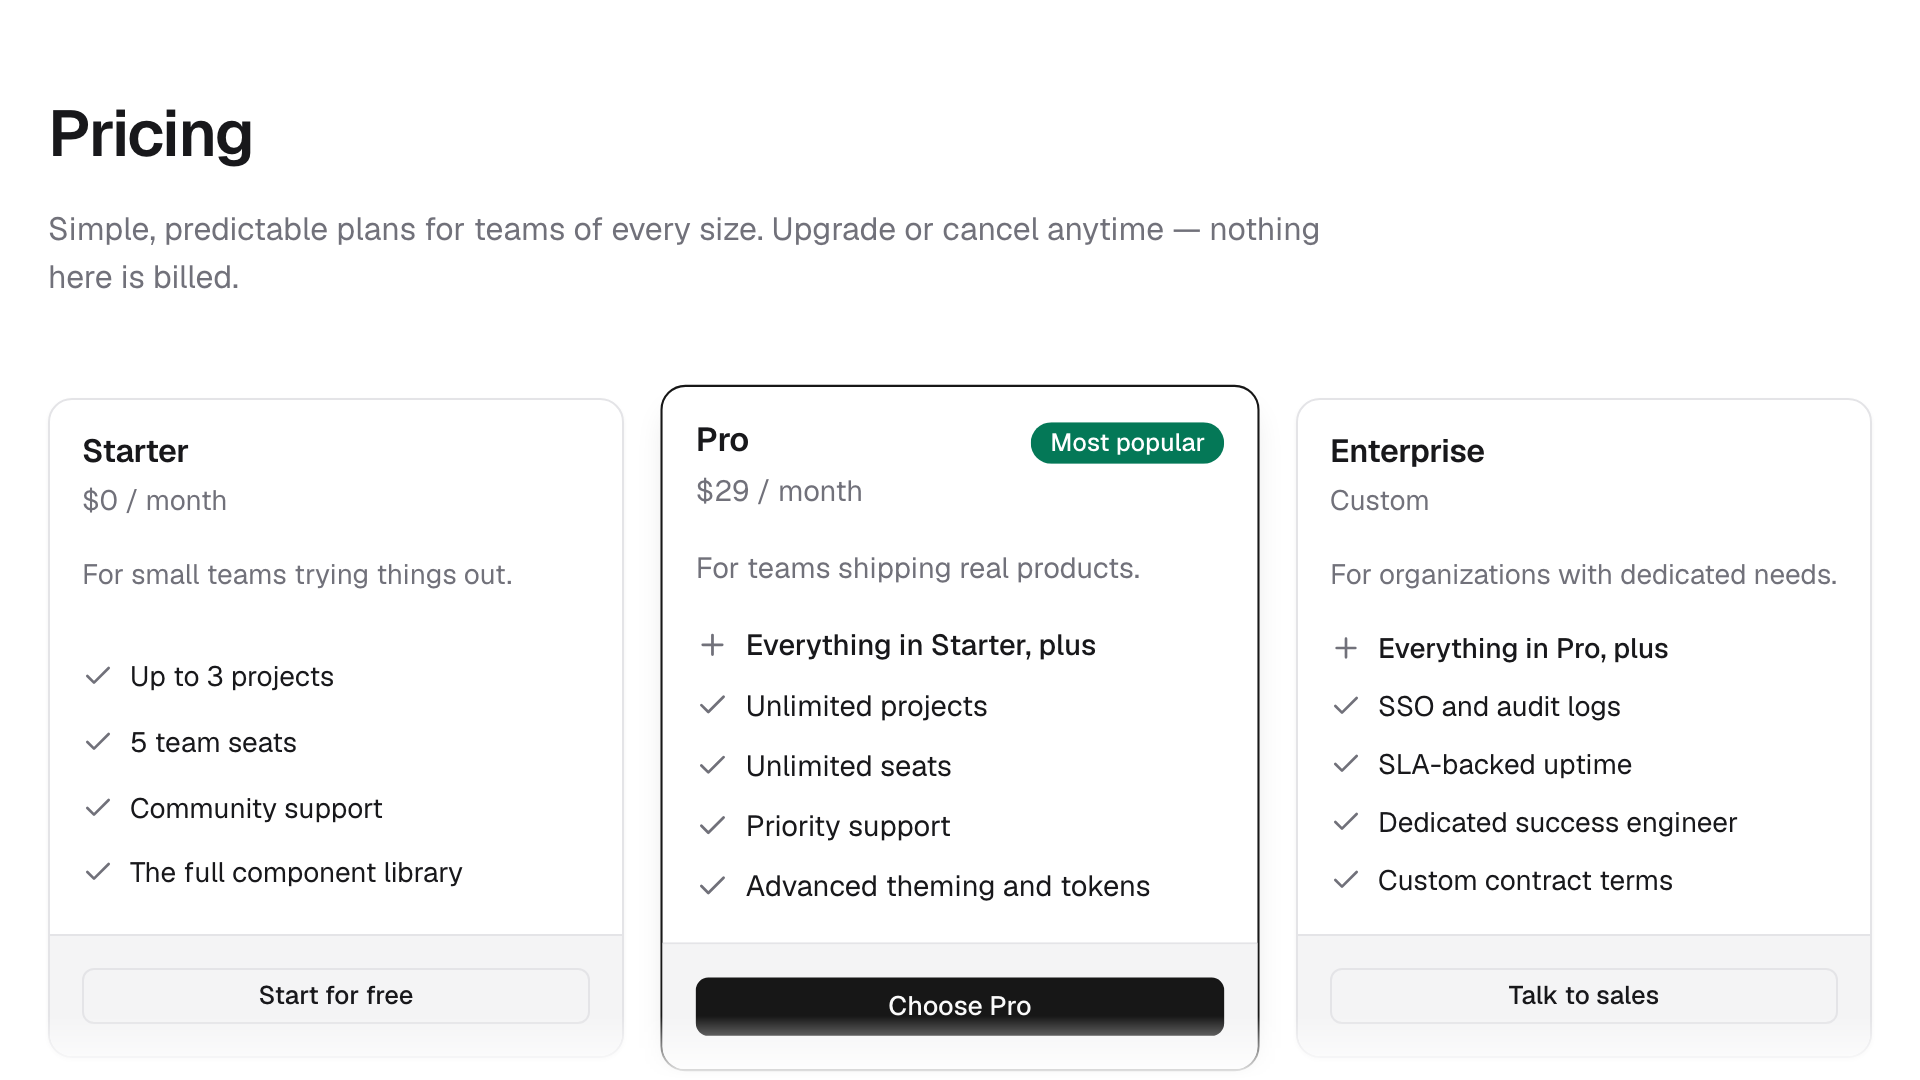
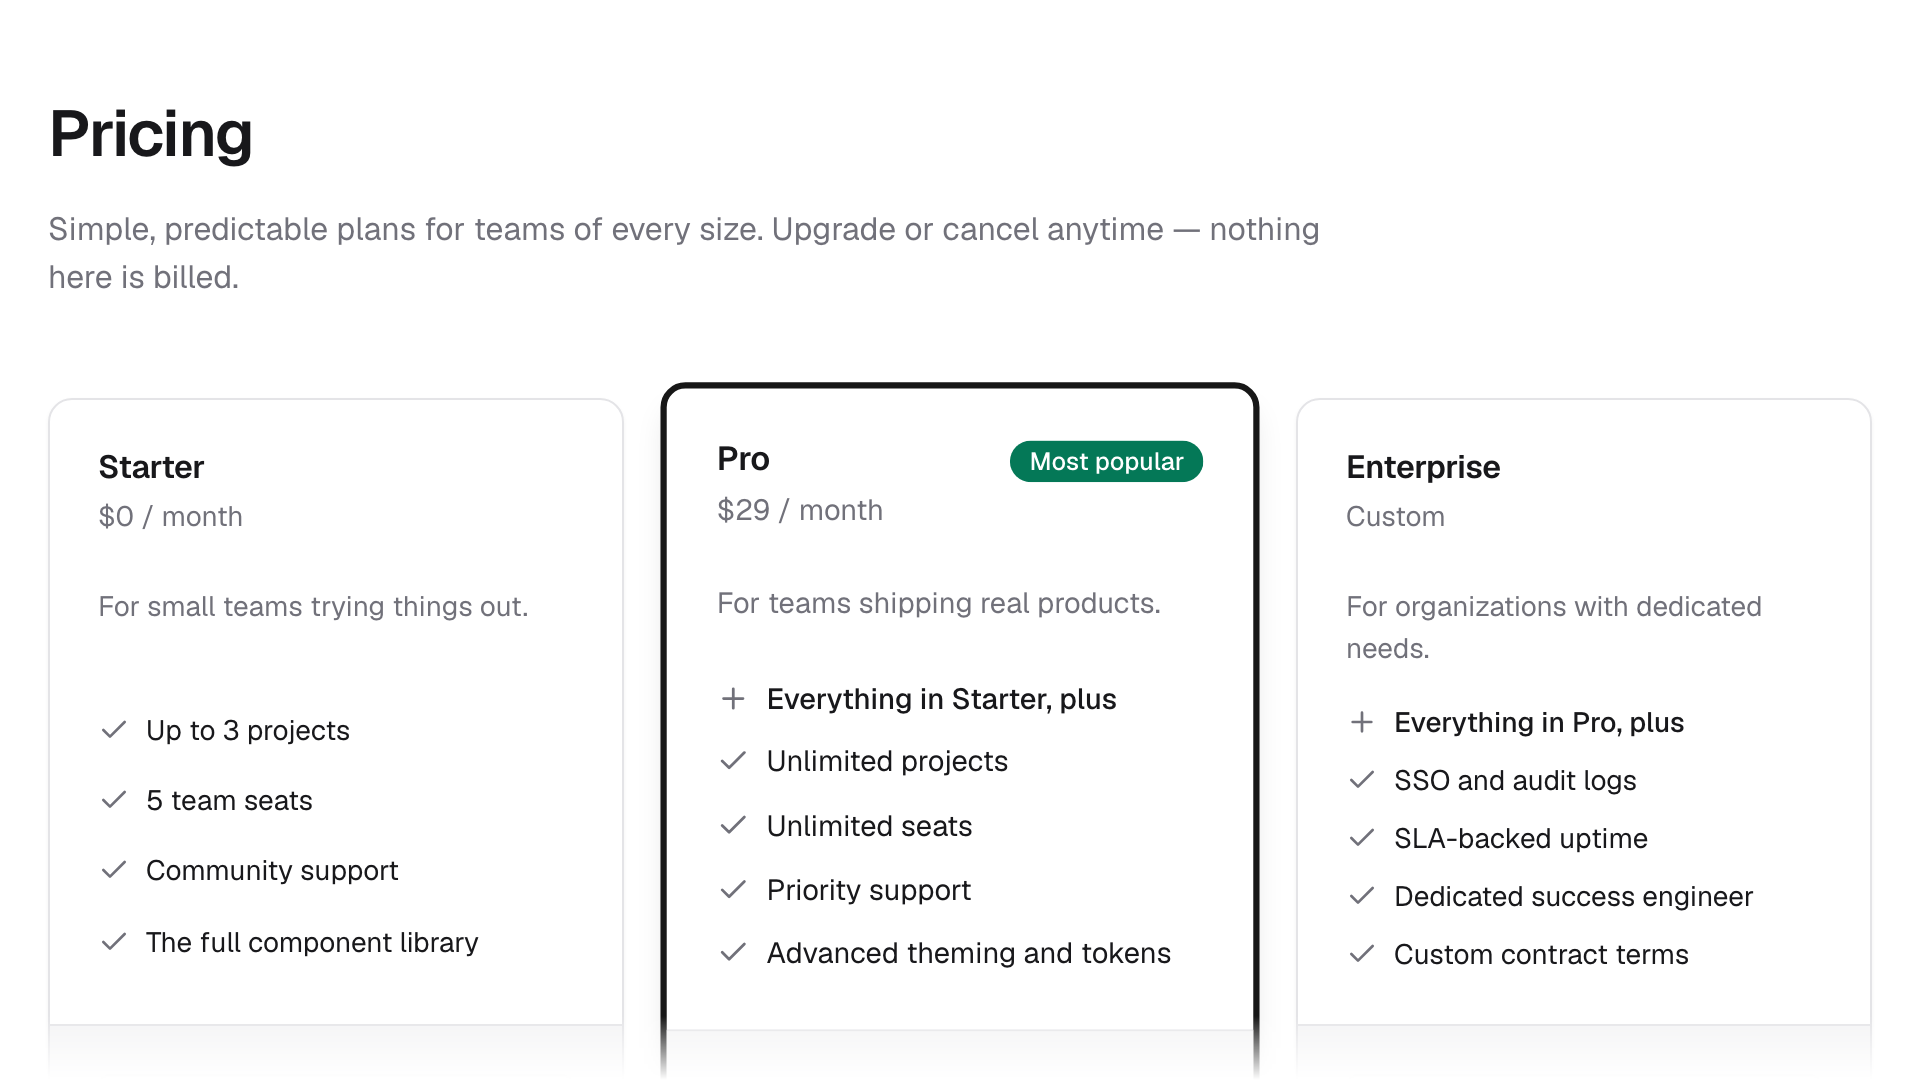
fix(examples): give Pricing tiers more padding and Pro a thicker frame
Roomier pricing cards: .moo-pricing-card raises --moo-card-spacing to
1.5rem so the header/body/footer breathing room grows with the card
contract's own token instead of hand-padding each section.

The featured "Most popular" Pro card drops the 1px hairline for a 3px
solid primary frame (it already carried the scale-up and strong shadow),
so it reads as the highlighted option in light mode while the scale +
shadow keep it distinct on dark. Regenerates the Pricing preview.

diff --git a/site/scss/catalog/_examples.scss b/site/scss/catalog/_examples.scss
@@ -426,6 +426,10 @@
 }
 
 .moo-pricing-card {
+  // Roomier than the default card inset so the tiers breathe; the card
+  // contract's own --moo-card-spacing token drives every padding.
+  --moo-card-spacing: 1.5rem;
+
   height: 100%;
 }
 
@@ -467,6 +471,10 @@
 // sit side by side so it reads as slightly larger rather than just
 // re-bordered.
 .moo-pricing-card--featured {
+  // A thicker primary frame instead of the hairline every other tier
+  // carries; with the scale-up and strong shadow below it reads as the
+  // highlighted option in both light and dark.
+  border: 3px solid var(--bs-primary);
   box-shadow: var(--bs-box-shadow-lg);
   z-index: 1;
 }
